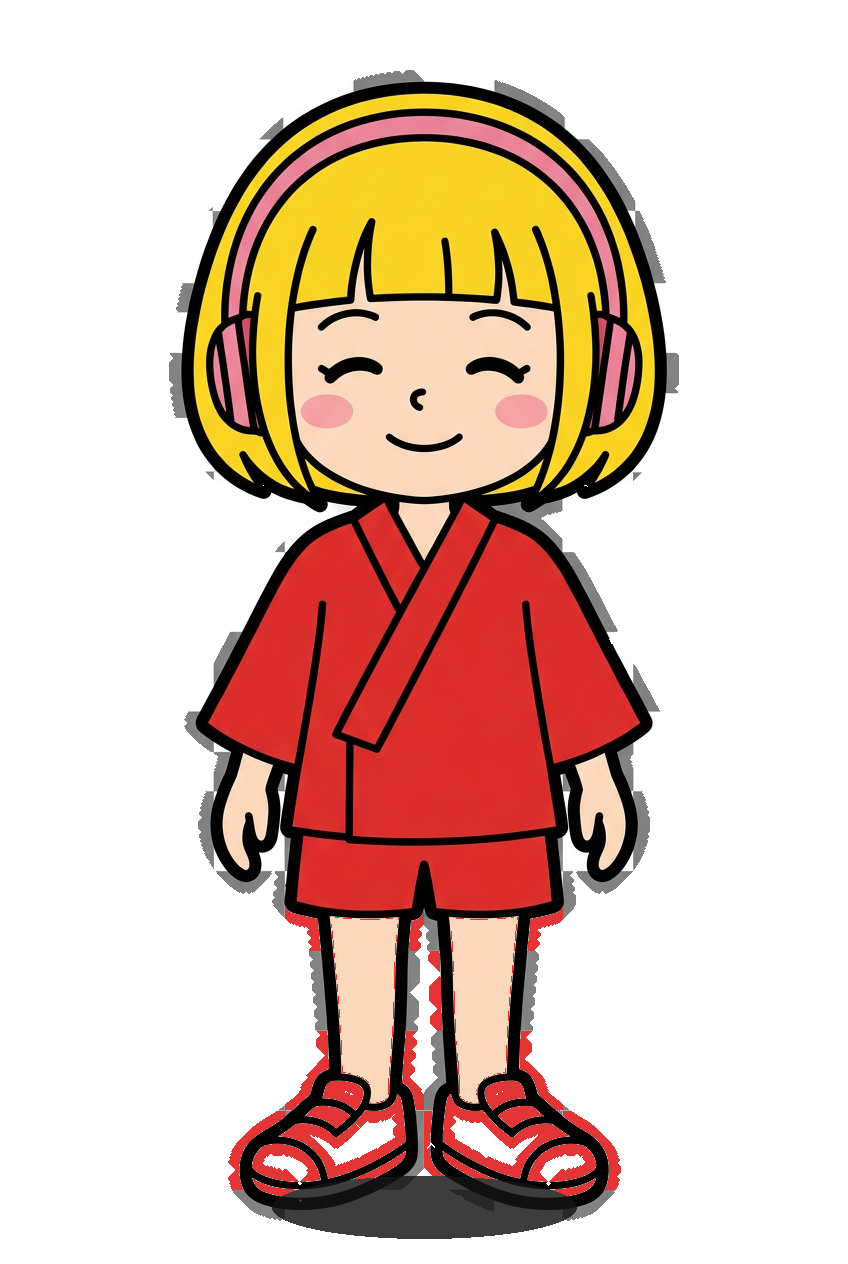
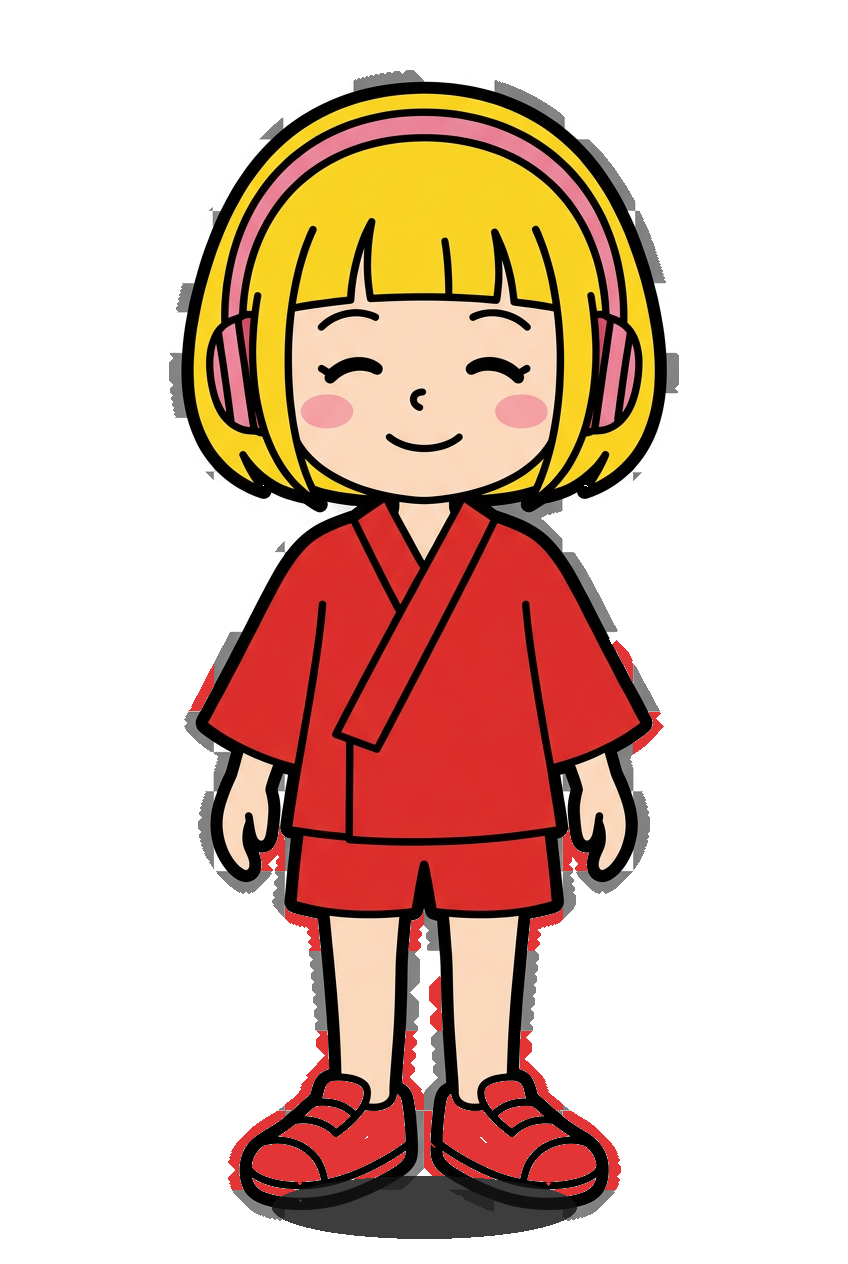
fix: 接地影 renderOrder + 靴アウトライン内側の透明穴を赤塗り (#19)
* fix: 接地影 renderOrder=-1 + 靴アウトライン内側の透明穴を赤で塗りつぶし

ユーザー報告 2 件に対応:

1. **「キャラクターの影がキャラクターの上に来ている」**
   - 原因: 影 mesh と NPC sprite の両方が depthWrite:false のため、
     描画順 (距離ソート) によって影が後から描かれ sprite を覆い隠していた
   - 修正: src/core/Game.ts addContactShadow で mesh.renderOrder=-1 設定
     → 影は必ず sprite より先に描画 → sprite が手前に描かれて自然な接地表現に

2. **「靴がスケルトン状態 (中身透明)」**
   - 原因: nano-banana 生成時の白いスニーカー + チェッカー背景の白セルが連結し、
     remove-checker-bg.py で「靴の内側が透明」になっていた。fix-sprites.py red-v1 は
     白ピクセルしか塗らないため、透明な穴は塗り対象外だった
   - 修正: scripts/fix-sprites.py colorize_shoes_red を numpy + scipy.binary_fill_holes で
     再実装。下端 30% 領域で「不透明連結成分が囲む透明な穴」を検出し、
     白置換と同時に赤で塗りつぶし alpha=255 化
   - sentinel を red-v1 → red-v2 に bump して全 14 sprite を再処理
   - flip_horizontal の sentinel 引き継ぎは v1 で対応済 (key 名変更ないので新版でも動作)

検証:
- npm run typecheck PASS
- npm run build PASS (gzip 973.89 KB、画像のみ変更で +0.01 KB)
- 全 14 sprite で changed_px 2,500-11,000 (穴埋め成功)
- 目視確認: front-idle / side-run の靴が完全な赤色 + フットシャドウ共存

* fix(scripts): 靴穴埋め範囲を下端 12% に絞る + main から sprite リセット (codex review High)

codex review 指摘:
> binary_fill_holes が下端 30% 全体に作用し、靴だけでなく脚・短パンに囲まれた
> 透明領域も穴扱いになる。実機で front-idle.png のふくらはぎ横〜股下に
> 赤いギザギザが出ている

修正:
- 操作 1 (白→赤置換): 下端 30% (y >= H*0.70)、変更なし
- 操作 2 (穴埋め): 下端 12% (y >= H*0.88) に限定
  → 靴帯のみ対象。脚 (肌色) や短パン (赤) 領域内の透明穴は誤検出しない
- sentinel `tdk-shoe-color` を red-v2 → red-v3 に bump
- main の sprite (red-v1) に 14 枚リセットしてから v3 適用
  → red-v2 で誤って塗ったギザギザを完全クリア

検証:
- npm run typecheck PASS
- npm run build PASS
[…]

diff --git a/src/core/Game.ts b/src/core/Game.ts
@@ -306,6 +306,10 @@ export class Game {
     const mesh = new THREE.Mesh(this.contactShadowGeometry, this.contactShadowMaterial);
     mesh.rotation.x = -Math.PI / 2;
     mesh.position.set(target.position.x, groundY, target.position.z);
+    // **renderOrder = -1**: NPC/Player sprite (transparent + depthWrite:false、default renderOrder=0)
+    // との重なり時に影が後から描かれて sprite を覆い隠す現象を防ぐ。影を強制的に
+    // 一番先に描画 → sprite が後から手前に上書きされて自然な接地表現になる。
+    mesh.renderOrder = -1;
     this.scene.add(mesh);
     this.contactShadows.push({ mesh, target, groundY });
   }

diff --git a/scripts/fix-sprites.py b/scripts/fix-sprites.py
@@ -127,51 +127,88 @@ def add_foot_shadow(path: str) -> tuple[float, float, str]:
 
 def colorize_shoes_red(path: str) -> tuple[int, str]:
     """
-    画像下端 30% 領域内の「白っぽい不透明ピクセル」をブランド赤 (#e33535) に置換。
+    画像下端 30% 領域で 2 種類の操作を行い、靴領域を完全にブランド赤 (#e33535) で塗りつぶす。
 
-    判定条件 (and):
-    - alpha > 200 (不透明)
-    - R, G, B all >= 200 (白〜薄灰)
+    操作 1: 既存の白っぽい不透明ピクセルを赤に置換
+        - 判定: alpha > 200 + R,G,B all >= 200 (白〜薄灰)
+        - 黒アウトライン (RGB 低) と肌色 (R>>G>B、B<200) は保持
+        - 短パン (元から赤、G/B<200) も保持
 
-    => 白い靴 / 白い靴底のみ対象。黒アウトライン (RGB 低) と肌色 (R>>G>B) は保持。
-    短パン (画像下から 30-50%) は処理範囲外なので影響なし。
+    操作 2: アウトライン内側の透明な「穴」も赤で塗りつぶす (red-v3 で追加)
+        - scipy.binary_fill_holes で「不透明ピクセルの連結成分が囲む穴」を検出
+        - 元の透過処理で「白い靴 + 白い背景チェッカー」が連結して透明化された
+          スケルトン領域を救済 (ユーザー報告: 靴中身が透明でピンク背景が透ける)
+        - **靴限定**: 穴埋めは下端 12% 領域のみ (red-v2 では 30% 全体 → 脚/短パン内の
+          透明領域も誤検出して赤塗りされた問題への対策、codex review High)
 
-    **冪等性保証**: PNG metadata `tdk-shoe-color=red-v1` を sentinel に使用。
-    既に塗布済みなら再処理しない (foot-shadow sentinel は別 key で共存)。
+    **冪等性保証**: PNG metadata `tdk-shoe-color=red-v3` を sentinel に使用。
+    既存 red-v1/red-v2 は再処理対象、red-v3 は skip。foot-shadow sentinel は別 key で共存。
 
     return: (changed_pixel_count, status)
     """
+    import numpy as np
+    from scipy.ndimage import binary_fill_holes
+    from PIL import PngImagePlugin
+
+    import numpy as np
+    from scipy.ndimage import binary_fill_holes, binary_dilation, label
+
     img = Image.open(path).convert("RGBA")
     info = img.info or {}
-    if info.get("tdk-shoe-color") == "red-v1":
+    if info.get("tdk-shoe-color") == "red-v8":
         return 0, "skipped"
 
     W, H = img.size
-    y_start = int(H * 0.70)  # 下から 30% (靴領域、短パンは除外)
+    arr = np.array(img)  # shape: (H, W, 4)
+    alpha = arr[:, :, 3]
 
-    pixels = img.load()
-    if pixels is None:
-        return 0, "error-no-pixels"
+    # 全画素に対する白マスク (alpha>200 + RGB all >= 200)
+    white_mask_all = (
+        (alpha > 200)
+        & (arr[:, :, 0] >= 200)
+        & (arr[:, :, 1] >= 200)
+        & (arr[:, :, 2] >= 200)
+    )
 
-    target = (227, 53, 53)  # #e33535 ブランド赤
-    changed = 0
-    for y in range(y_start, H):
-        for x in range(W):
-            px = pixels[x, y]
-            if not isinstance(px, tuple) or len(px) < 4:
-                continue
-            r, g, b, a = px[0], px[1], px[2], px[3]
-            if a > 200 and r >= 200 and g >= 200 and b >= 200:
-                pixels[x, y] = (target[0], target[1], target[2], a)
-                changed += 1
+    # 操作 1: 大きい白い連結成分 (= 靴) のみ赤化、かつ画像下半分に位置するもの。
+    # → 顔/目/ヘッドフォン等の小さな白いハイライト (連結成分が小さい) は保護
+    # → 上半身の白いアクセントも保護 (下半分 H*0.50 を境界に)
+    # **注意 (red-v8 採用方針)**: ふくらはぎや脚周辺に細い赤縁が残る既知の妥協点があるが、
+    # 全 pose で両足の靴を確実に塗るため「完全塗り > 縁の細さ」を優先 (ユーザー C 選択)。
+    labeled, _num = label(white_mask_all)
+    sizes = np.bincount(labeled.ravel())
+    sizes[0] = 0  # 背景 (label=0) は対象外
+    large_labels = np.where(sizes >= 200)[0]
+    white_mask_large = np.isin(labeled, large_labels) & white_mask_all
+    y_indices = np.indices(white_mask_large.shape)[0]
+    white_mask_target = white_mask_large & (y_indices >= int(H * 0.50))
 
-    # PNG metadata: 既存 foot-shadow sentinel を保持 + shoe-color sentinel 追加
-    from PIL import PngImagePlugin
+    # 操作 2: 「靴ゾーン」 = white_mask_target を 15px 膨張させた範囲内のみ穴埋め。
+    # → run/jump で靴が画像中央寄りにあっても確実に追従、脚や短パン領域は除外
+    shoe_zone = binary_dilation(white_mask_target, iterations=15)
+    opaque_full = alpha > 128
+    opaque_in_zone = opaque_full & shoe_zone
+    filled_zone = binary_fill_holes(opaque_in_zone)
+    if filled_zone is None:
+        filled_zone = opaque_in_zone
+    hole_mask = filled_zone & ~opaque_full & shoe_zone
+
+    target_mask = white_mask_target | hole_mask
+    changed = int(target_mask.sum())
+
+    # 赤 (#e33535) で塗りつぶし。穴 (元 alpha=0) は alpha=255 に
+    arr[:, :, 0] = np.where(target_mask, 227, arr[:, :, 0])
+    arr[:, :, 1] = np.where(target_mask, 53, arr[:, :, 1])
+    arr[:, :, 2] = np.where(target_mask, 53, arr[:, :, 2])
+    arr[:, :, 3] = np.where(target_mask, 255, arr[:, :, 3])
+
+    new_img = Image.fromarray(arr, "RGBA")
+
     pnginfo = PngImagePlugin.PngInfo()
     if info.get("tdk-foot-shadow") == "v1":
         pnginfo.add_text("tdk-foot-shadow", "v1")
-    pnginfo.add_text("tdk-shoe-color", "red-v1")
-    img.save(path, "PNG", pnginfo=pnginfo)
+    pnginfo.add_text("tdk-shoe-color", "red-v8")
+    new_img.save(path, "PNG", pnginfo=pnginfo)
     return changed, "applied"
 
 
